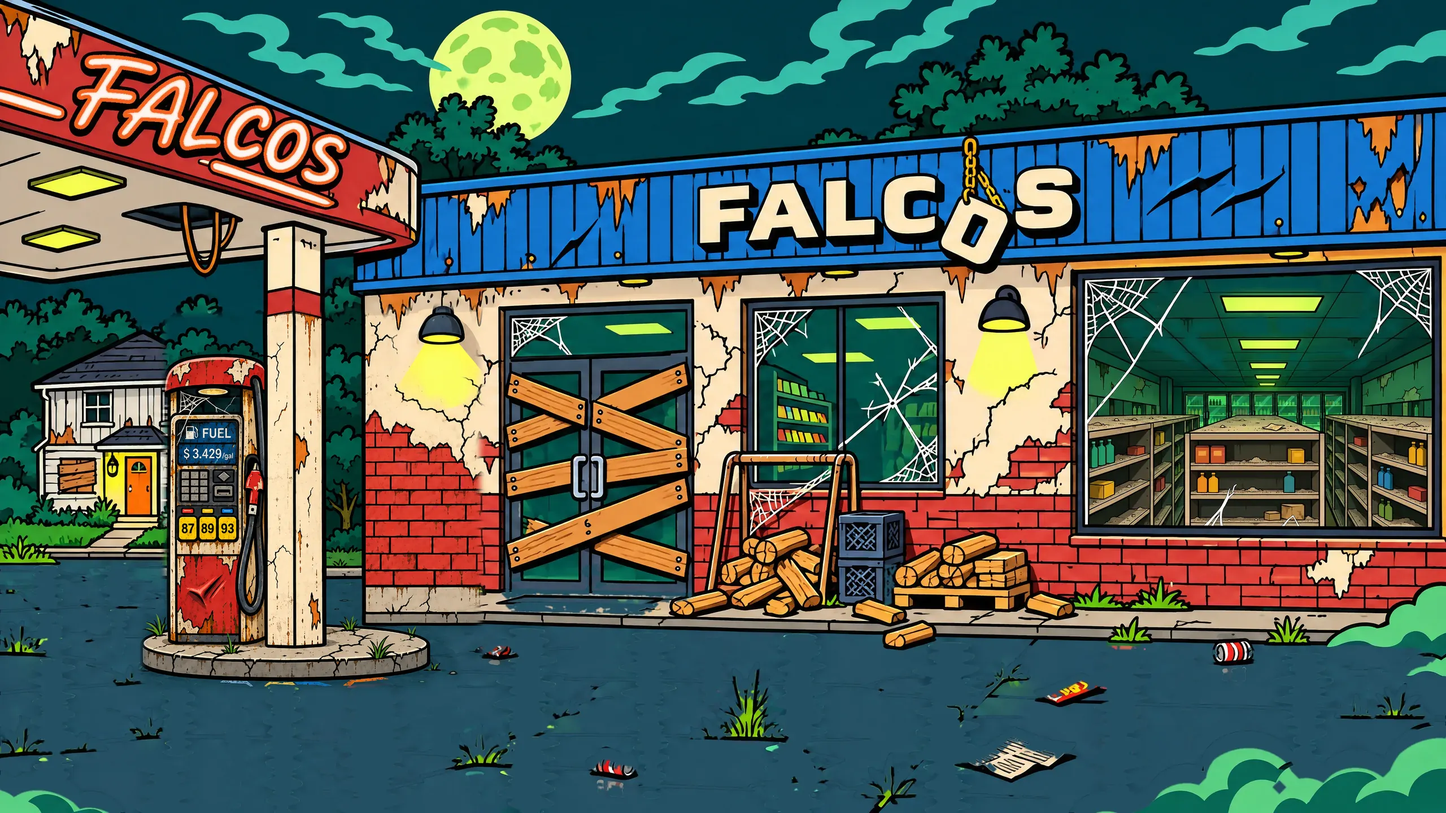
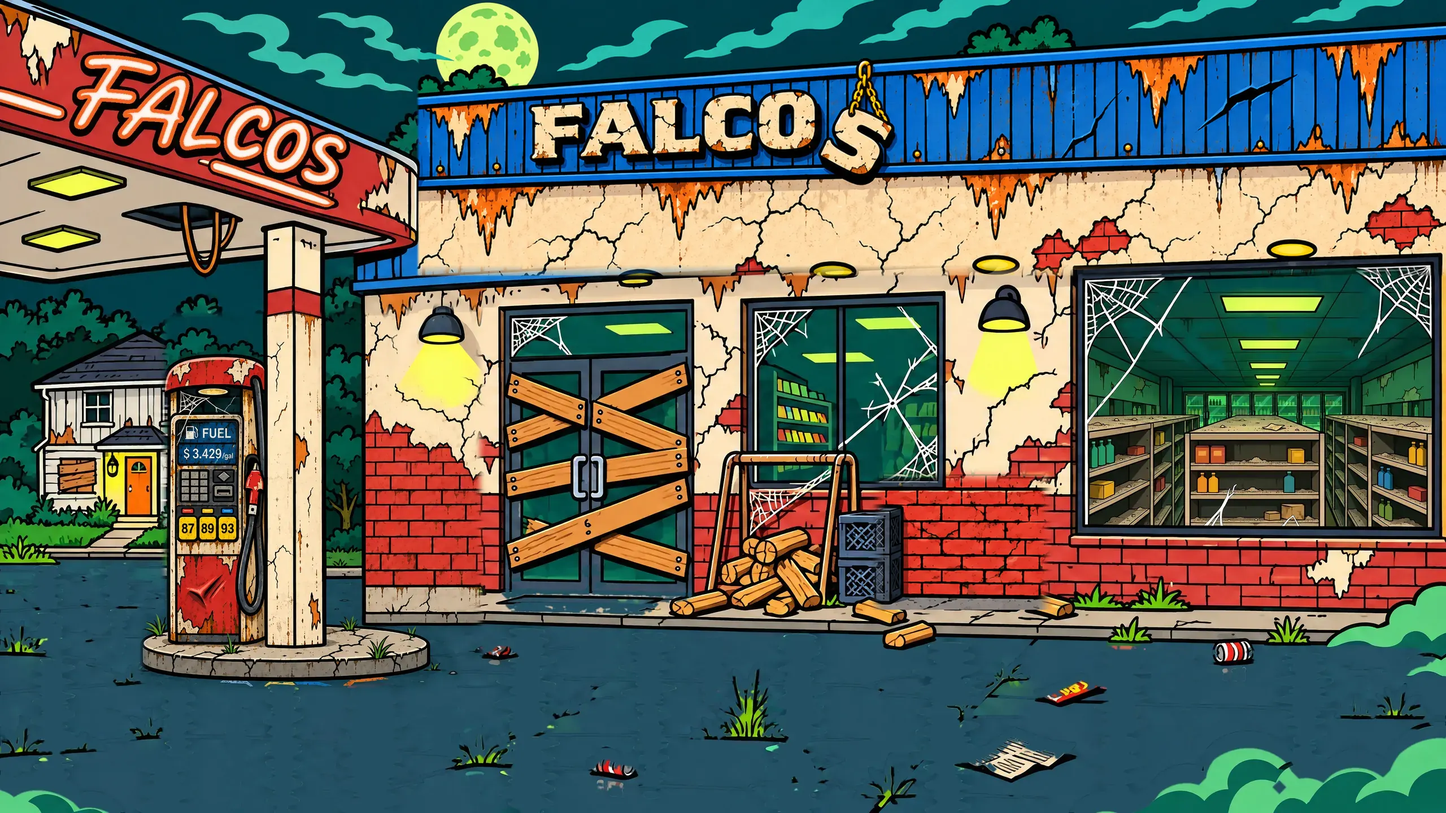
Falcos: taller building with FALCOS centred near the top, no wood stack; loading cards bigger
- Every scene's store is taller: the blue fascia and its FALCOS lettering sit higher, the lettering centred on
  the screen, and the wood stack right of the crate is gone; each theme keeps its own doors, windows and shop
  (tools/falcos/building_tall.py).
- The loading screen's cards move up under the higher sign and grow.

Changed region(s): [[0.2812, 0.0, 1.0, 0.3438], [0.5938, 0.5625, 0.75, 0.75]]

diff --git a/frontend/index.html b/frontend/index.html
@@ -579,7 +579,7 @@
     /* down the screen, the top third left clear so the FALCOS sign on the building shows above the cards
        (owner, 2026-11-17: "scoot the load in screen down some so you can see the falcos sign") */
     display: flex; flex-direction: column; align-items: center; justify-content: flex-end; gap: 2.2vh;
-    padding: 30vh 4vw 3vh; user-select: none;
+    padding: 21vh 4vw 3vh; user-select: none;
     opacity: 0; transition: opacity .6s ease;
     -webkit-backdrop-filter: brightness(.5) sepia(.55) saturate(1.5) hue-rotate(-8deg);
     backdrop-filter: brightness(.5) sepia(.55) saturate(1.5) hue-rotate(-8deg);
@@ -593,7 +593,7 @@
      the title on the frame's cream plate below */
   .lcard {
     /* as big as the room under the sign allows (owner, 2026-11-17: "make these bigger") */
-    position: relative; width: min(25vw, calc((100vh - 30vh - 23vh) * 760 / 1154)); aspect-ratio: 760 / 1154; flex: none;
+    position: relative; width: min(26vw, calc((100vh - 21vh - 23vh) * 760 / 1154)); aspect-ratio: 760 / 1154; flex: none;
     filter: drop-shadow(0 12px 22px rgba(0, 0, 0, .7));
     opacity: 0; transform: translateY(4vh) scale(.92);
   }
@@ -644,14 +644,14 @@
   }
   .features.ready .fcont { opacity: 1; animation: bcont 1.5s ease-in-out infinite; }
   @media (orientation: portrait) {
-    .features { gap: 2.6vh; justify-content: flex-end; padding-top: 30vh; }
+    .features { gap: 2.6vh; justify-content: flex-end; padding-top: 22vh; }
     .lcards { gap: 2.4vw; }
     .lcard { width: min(31vw, 280px); }
     .lbar { width: min(88vw, 560px); }
   }
   @media (max-height: 520px) and (orientation: landscape) {
-    .features { gap: 1.2vh; padding: 30vh 4vw 2vh; }
-    .lcard { width: calc((100vh - 30vh - 26vh) * 760 / 1154); }
+    .features { gap: 1.2vh; padding: 21vh 4vw 2vh; }
+    .lcard { width: calc((100vh - 21vh - 26vh) * 760 / 1154); }
   }
   @media (prefers-reduced-motion: reduce) {
     .features .lcard, .features .fcont, .lbar .lbfuel, .lbar .lbfuel::after { animation: none !important; opacity: 1; transform: none; }

diff --git a/tools/falcos/building_tall.py b/tools/falcos/building_tall.py
@@ -1,0 +1,66 @@
+"""The store building taller, its FALCOS sign higher and centred on the screen, the wood stack right of the crate gone
+(owner, 2026-11-17: "can you make the building taller so the sign is more twords the top", "remove the pile of wood
+on the right side of the trash can", "make the big falcos on the building be centered to the screen").
+
+The normal scene's building crop was edited in steps (art/falcos/raw/building_lit_tall -> _nowood -> _center.png), and
+each themed scene's was restyled from the result with the theme's own crop as the look (building_<zombie|midnight|
+nitro>.png), as tools/falcos/pump_align.py did for the pump. This blends into every plate only:
+  * the top band - the raised blue fascia with the lettering and the taller wall under it, from where the building
+    starts (right of the canopy roof) to the right edge, down to just under the ceiling lights;
+  * the spot the wood stack stood on.
+So each theme keeps its own doors, windows and shop. Writes the plates (2560) and their phone twins (_m, 1600).
+
+    .venv/bin/python tools/falcos/building_tall.py      (after tools/falcos/pump_align.py; it starts from the plates
+                                                          pump_align.py wrote, kept as art/falcos/work/building/before_*)
+"""
+import os, shutil, sys
+import numpy as np
+from PIL import Image, ImageFilter
+
+ROOT = os.path.dirname(os.path.dirname(os.path.dirname(os.path.abspath(__file__))))
+sys.path.insert(0, os.path.join(ROOT, 'tools', 'falcos'))
+from compress_assets import encode, PLATE_Q, PLATE_W_M   # noqa: E402
+
+A = os.path.join(ROOT, 'frontend', 'assets')
+RAW = os.path.join(ROOT, 'art', 'falcos', 'raw')
+W = os.path.join(ROOT, 'art', 'falcos', 'work', 'building')
+BOX = (640, 0, 2560, 1080)            # the building's crop on a 2560-wide plate
+BAND = (100, 0, 1920, 505)            # crop px: from the building's left end (the canopy roof ends there) to the right edge
+WOOD = (900, 830, 1225, 1080)         # crop px: where the wood stack stood
+PLATES = {'lit': 'bonus_wall.webp', 'zombie': 'scene/plate_zombie.webp', 'midnight': 'scene/plate_midnight.webp',
+          'nitro': 'scene/plate_nitro.webp'}
+EDITS = {'lit': 'building_lit_center.png', 'zombie': 'building_zombie.png', 'midnight': 'building_midnight.png',
+         'nitro': 'building_nitro.png'}
+
+
+def mask(size):
+    w, h = size
+    band = Image.new('L', size, 0)
+    band.paste(255, (BAND[0], BAND[1], BAND[2], BAND[3] - 18))
+    band = band.filter(ImageFilter.GaussianBlur(1.5))   # a crisp corner at the building's left end
+    a = np.asarray(band, np.float32)
+    # the band's foot fades over the wall, just under the ceiling lights
+    ys = np.arange(h, dtype=np.float32)[:, None]
+    foot = np.clip((BAND[3] - ys) / 36, 0, 1)
+    a = np.where(ys > BAND[3] - 36, np.minimum(a, foot * 255), a)
+    wood = Image.new('L', size, 0)
+    wood.paste(255, (WOOD[0] + 14, WOOD[1] + 14, WOOD[2] - 14, WOOD[3]))
+    wood = np.asarray(wood.filter(ImageFilter.GaussianBlur(7)), np.float32)
+    return Image.fromarray(np.maximum(a, wood).astype(np.uint8))
+
+
+for name, rel in PLATES.items():
+    out = os.path.join(A, rel)
+    before = os.path.join(W, f'before_{name}.webp')
+    if not os.path.exists(before):
+        shutil.copyfile(out, before)
+    plate = Image.open(before).convert('RGB')
+    region = plate.crop(BOX)
+    edit = Image.open(os.path.join(RAW, EDITS[name])).convert('RGB').resize(region.size, Image.LANCZOS)
+    m = mask(region.size)
+    region.paste(edit, (0, 0), m)
+    plate.paste(region, BOX[:2])
+    encode(plate, out, PLATE_Q, 100)
+    small = plate.resize((PLATE_W_M, round(plate.height * PLATE_W_M / plate.width)), Image.LANCZOS)
+    encode(small, out[:-5] + '_m.webp', PLATE_Q, 100)
+    print(f'{name}: building blended -> {rel} (+ _m)')
